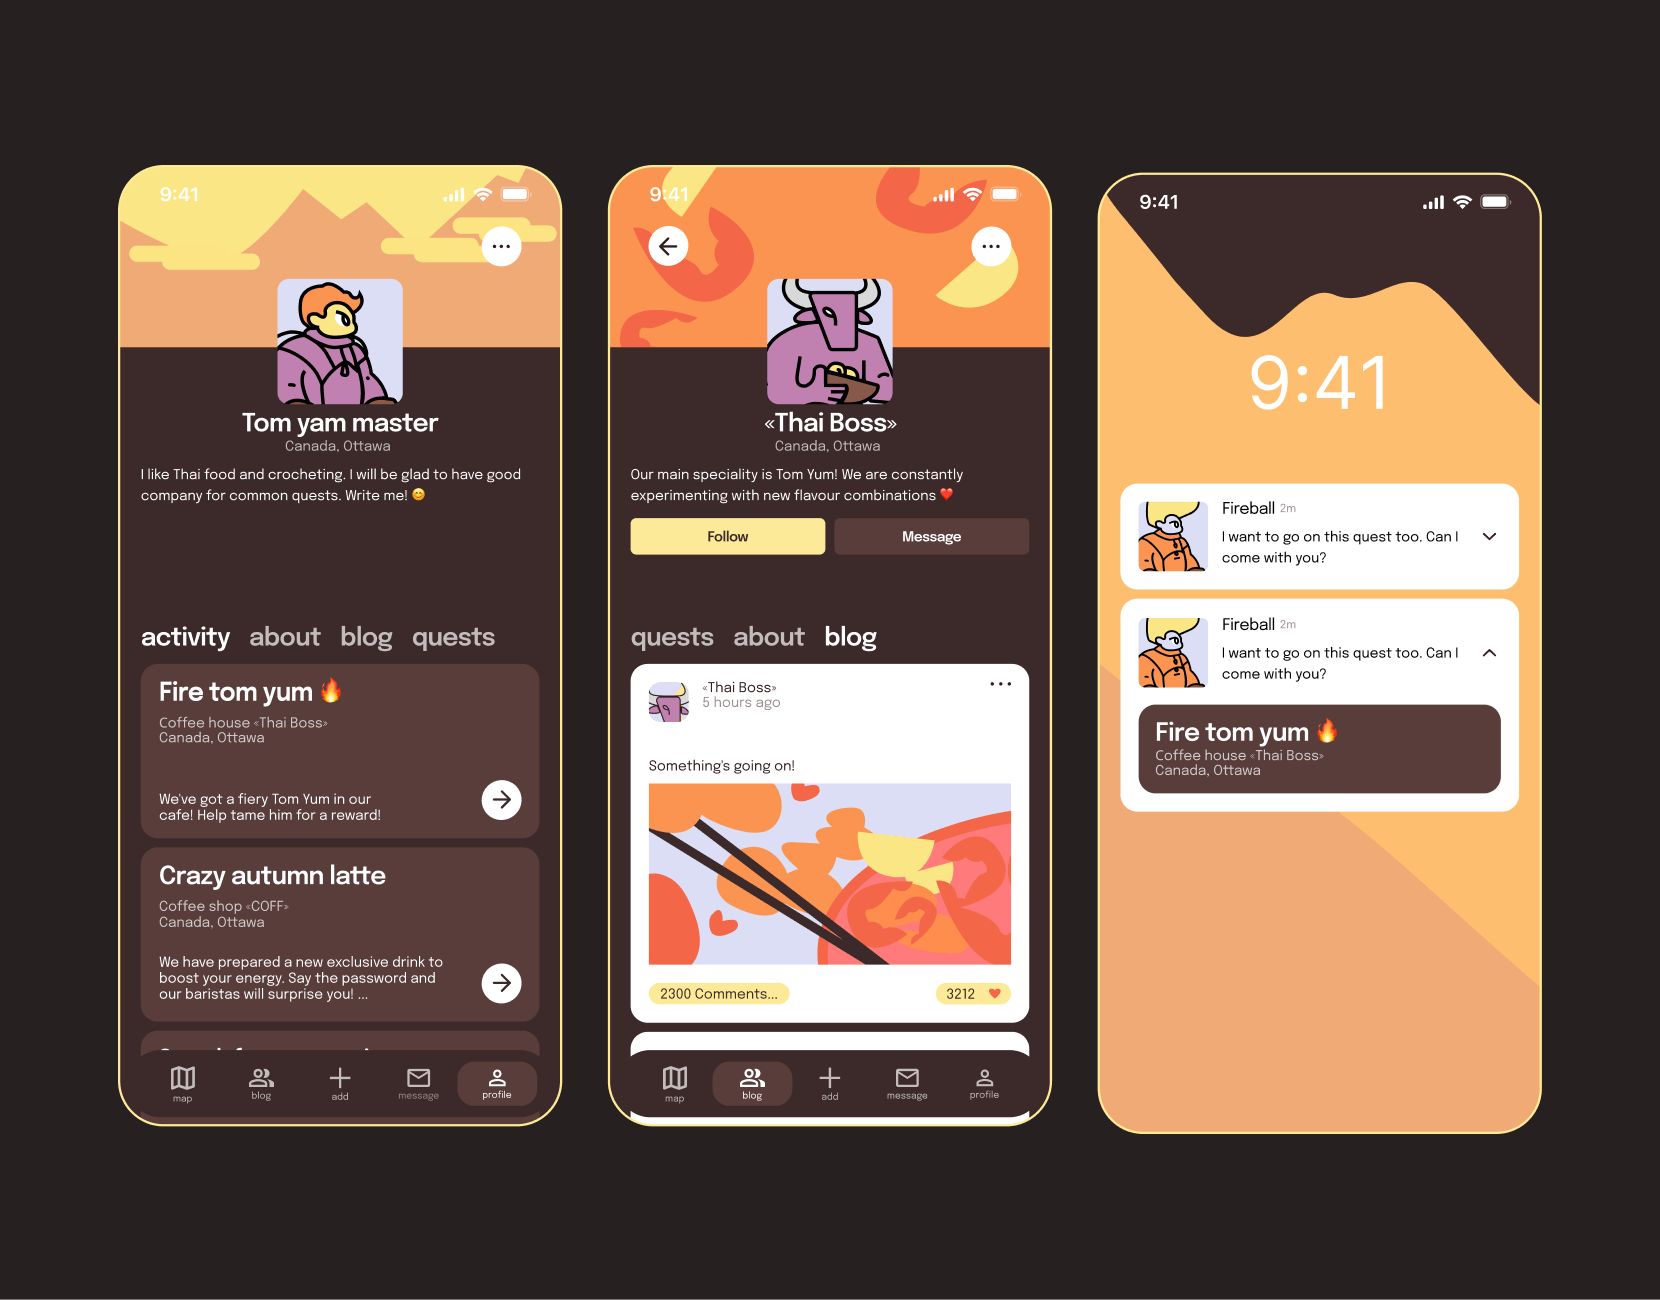
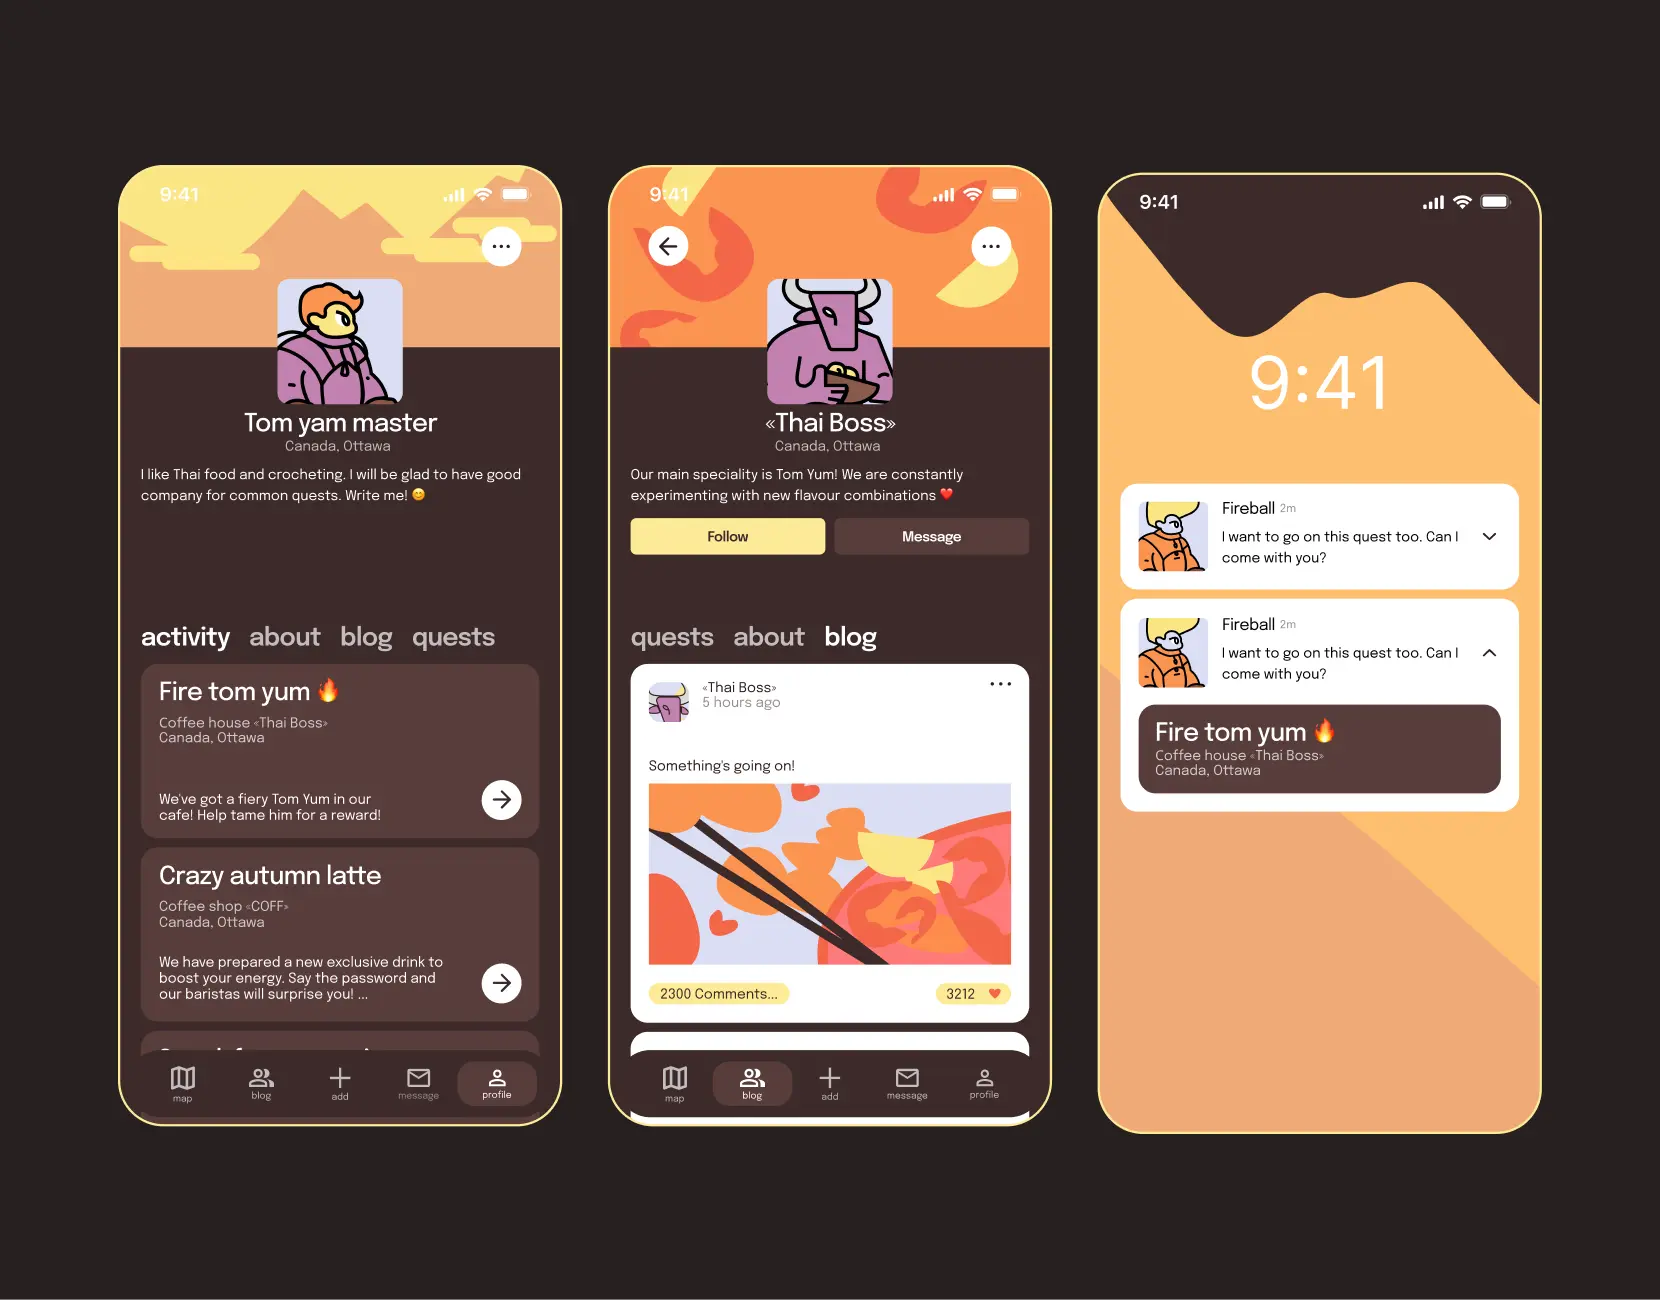
refactor: change structure of the project

diff --git a/index-ru.html b/index-ru.html
@@ -46,7 +46,7 @@
                 </li>
 
                 <li class="nav-item">
-                    <a href="assets/cv/Елизавета Сашенкова-UX-UI Designer-Резюме.pdf" class="nav-link" target="_blank">Резюме</a>
+                    <a href="assets/cv/Елизавета-Сашенкова-UX-UI-Designer-Резюме.pdf" class="nav-link" target="_blank">Резюме</a>
                 </li>
 
                 <li class="nav-item">
@@ -76,7 +76,9 @@
         <div class="container-foodquest">
             <div class="sidebar">
                 <div class="sidebar-info-1">
-                    <h1 class="title">Foodquest</h1>
+                    <a href="https://foodquest.framer.ai/" id="foodquest">
+                        <h1 class="title">Foodquest</h1>
+                    </a>
                     <p class="description">Приложение, которое помогает пользователям найти друзей и гастрономические приключения.</p>
 
                     <div class="tag-block">

diff --git a/index.html b/index.html
@@ -76,7 +76,9 @@
         <div class="container-foodquest">
             <div class="sidebar">
                 <div class="sidebar-info-1">
-                    <h1 class="title">Foodquest</h1>
+                    <a href="https://foodquest.framer.ai/" id="foodquest">
+                        <h1 class="title">Foodquest</h1>
+                    </a>
                     <p class="description">The app that helps users find friendship and embark on gastronomic adventures.</p>
 
                     <div class="tag-block">

diff --git a/style.css b/style.css
@@ -286,6 +286,19 @@ video {
     margin: 20px;
 }
 
+#foodquest {
+    margin-bottom: 20px;
+    font-size: 42px;  
+    line-height: 110%;
+    font-weight: 500;
+    font-family: "Source Code Pro", monospace;
+}
+
+#foodquest:hover {
+    color: #999691;
+    transition: border 0.3s;
+}
+
 .title {
     margin-bottom: 20px;
     font-size: 42px;  
